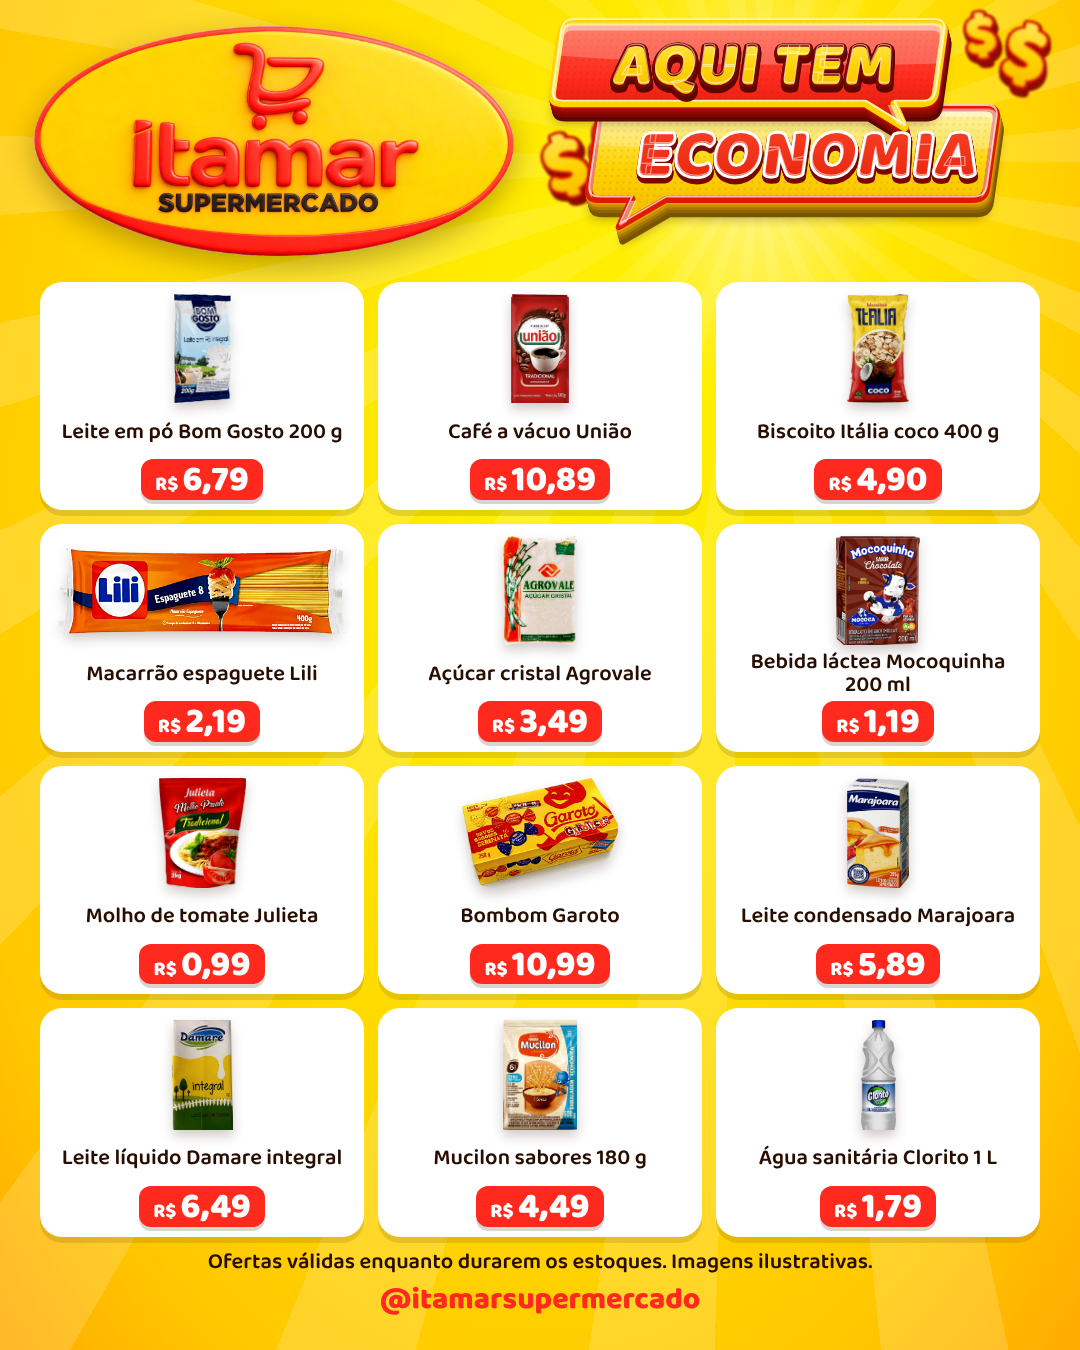
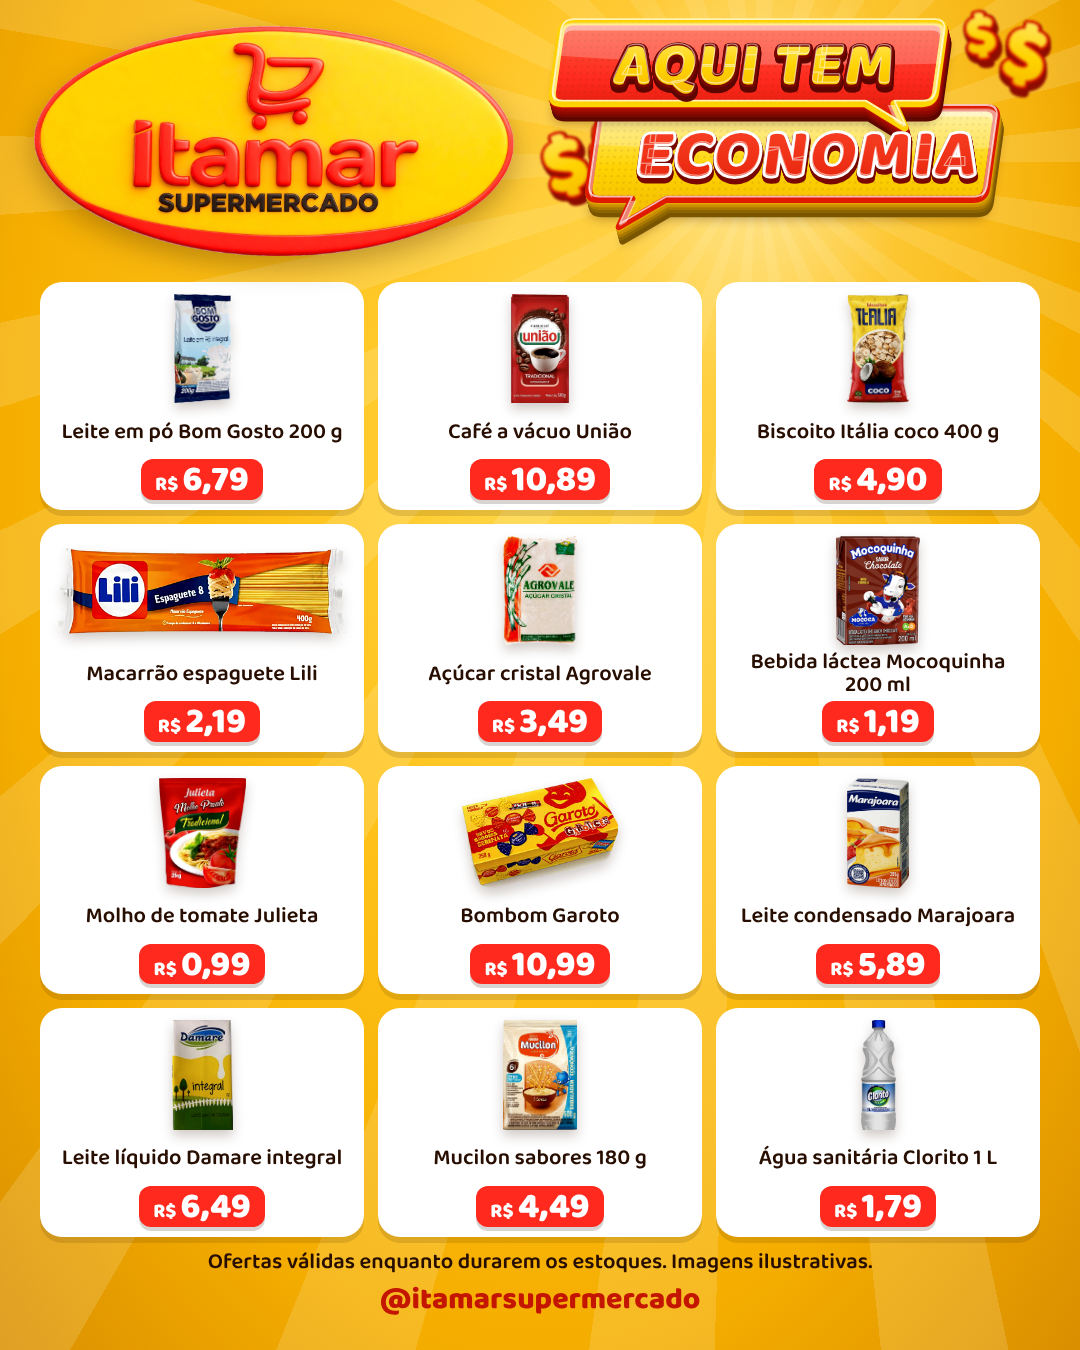
Itamar mercearia: fundo amarelo ouro; @ em vermelho escuro para manter contraste
Claude-Session: https://claude.ai/code/session_01RAcsiCUqH9iCNBekL3L4L7

Changed region(s): [[0.0, 0.0, 1.0, 1.0]]

diff --git a/clientes/itamar-supermercado/entregas/2026-11-19-ofertas-mercearia/card-ofertas.html b/clientes/itamar-supermercado/entregas/2026-11-19-ofertas-mercearia/card-ofertas.html
@@ -3,7 +3,7 @@
 <style>
 :root{--amarelo:#FFD302;--vermelho:#FF291E;--marrom:#280E01}
 *{box-sizing:border-box;margin:0}
-body{width:1080px;height:1350px;background:#FFE000;font-family:"Baloo 2",sans-serif;color:var(--marrom);display:flex;flex-direction:column;padding:0 40px 26px;gap:12px;background-image:radial-gradient(ellipse at 70% 12%,rgba(255,255,200,.7) 0,rgba(255,245,0,.45) 150px,transparent 330px),repeating-conic-gradient(from 0deg at 70% 12%,rgba(255,255,255,.16) 0 6deg,transparent 6deg 14deg),radial-gradient(ellipse at 50% 35%,#FFF200 0,#FFE000 40%,#FFC800 80%,#FFAA00 100%)}
+body{width:1080px;height:1350px;background:#FFC21A;font-family:"Baloo 2",sans-serif;color:var(--marrom);display:flex;flex-direction:column;padding:0 40px 26px;gap:12px;background-image:radial-gradient(ellipse at 70% 12%,rgba(255,244,190,.75) 0,rgba(255,214,90,.45) 150px,transparent 330px),repeating-conic-gradient(from 0deg at 70% 12%,rgba(255,250,220,.16) 0 6deg,transparent 6deg 14deg),radial-gradient(ellipse at 50% 35%,#FFD84A 0,#FFC21A 35%,#F5AE00 70%,#D98E00 100%)}
 .top{position:relative;height:270px;flex:none;margin:0 -40px}
 .top>img{position:absolute;left:34px;top:26px;width:480px;filter:drop-shadow(0 10px 14px rgba(40,14,1,.3));z-index:3}
 .top svg.t{position:absolute;overflow:visible}
@@ -14,7 +14,7 @@ body{width:1080px;height:1350px;background:#FFE000;font-family:"Baloo 2",sans-se
 .preco{align-self:center;margin-top:4px;background:var(--vermelho);color:#fff;border-radius:12px;padding:3px 14px 0;font:800 36px/1.05 "Baloo 2";white-space:nowrap;box-shadow:0 4px 0 rgba(40,14,1,.18)}
 .preco small{font-size:20px;margin-right:4px}
 .rod{text-align:center;font:600 22px/1.25 "Baloo 2"}
-.arroba{font:800 30px "Baloo 2";color:var(--vermelho)}
+.arroba{font:800 30px "Baloo 2";color:#C41500}
 </style>
 <div class="top"><img src="../../identidade/logo-itamar-3d-transparente.png" alt=""><svg class="t" viewBox="0 0 720 330" width="515" style="left:535px;top:12px"><defs>
 <linearGradient id="fV" x1="0" y1="0" x2="0" y2="1"><stop offset="0" stop-color="#FF5A3C"/><stop offset=".55" stop-color="#FF291E"/><stop offset="1" stop-color="#D01800"/></linearGradient>
